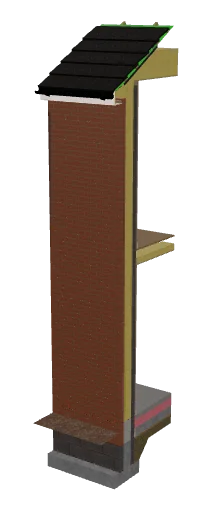
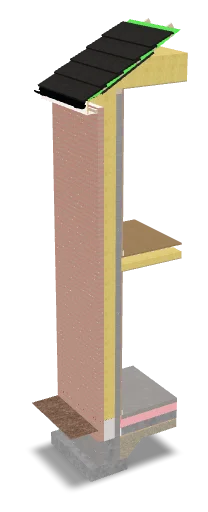
All files updated

diff --git a/styles.css b/styles.css
@@ -108,62 +108,3 @@ model-viewer {
   float: left;
   transition: width 0.3s;
 }
-
-#ar-button {
-  background-image: url(ar_icon.png);
-  background-repeat: no-repeat;
-  background-size: 20px 20px;
-  background-position: 12px 50%;
-  background-color: #fff;
-  position: absolute;
-  left: 50%;
-  transform: translateX(-50%);
-  white-space: nowrap;
-  bottom: 16px;
-  padding: 0px 16px 0px 40px;
-  font-family: Roboto Regular, Helvetica Neue, sans-serif;
-  font-size: 14px;
-  color:#4285f4;
-  height: 36px;
-  line-height: 36px;
-  border-radius: 18px;
-  border: 1px solid #DADCE0;
-}
-
-#ar-button:active {
-  background-color: #E8EAED;
-}
-
-#ar-button:focus {
-  outline: none;
-}
-
-#ar-button:focus-visible {
-  outline: 1px solid #4285f4;
-}
-
-@keyframes circle {
-  from { transform: translateX(-50%) rotate(0deg) translateX(50px) rotate(0deg); }
-  to   { transform: translateX(-50%) rotate(360deg) translateX(50px) rotate(-360deg); }
-}
-
-@keyframes elongate {
-  from { transform: translateX(100px); }
-  to   { transform: translateX(-100px); }
-}
-
-model-viewer > #ar-prompt {
-  position: absolute;
-  left: 50%;
-  bottom: 60px;
-  animation: elongate 2s infinite ease-in-out alternate;
-  display: none;
-}
-
-model-viewer[ar-status="session-started"] > #ar-prompt {
-  display: block;
-}
-
-model-viewer > #ar-prompt > img {
-  animation: circle 4s linear infinite;
-}

diff --git a/index.html b/index.html
@@ -1,32 +1,28 @@
 <!doctype html>
 <html lang="en">
   <head>
-    <title>&lt;model-viewer&gt; Construction Section 01</title>
+    <title>&lt;model-viewer&gt; Construction_Section_01</title>
     <meta charset="utf-8">
-    <meta name="description" content="&lt;model-viewer&gt; template">
+    <meta name="description" content="&lt;model-viewer&gt; Construction_Section_01">
     <meta name="viewport" content="width=device-width, initial-scale=1">
     <link type="text/css" href="./styles.css" rel="stylesheet"/>
   </head>
   <body>
     <!-- <model-viewer> HTML element -->
-    <model-viewer src="Construction Section_01.glb" ar ar-modes="webxr scene-viewer quick-look" camera-controls tone-mapping="neutral" poster="poster.webp" shadow-intensity="0" camera-orbit="305.5deg 74.83deg 14.97m" field-of-view="30deg" exposure="0.5">
-      <button class="Hotspot" slot="hotspot-2" data-position="0.14750001308687588m 4.603026205272397m -0.6445704399832366m" data-normal="-0.9999999999999994m 1.5367466376424592e-18m -3.422854295029559e-8m" data-visibility-attribute="visible">
-          <div class="HotspotAnnotation">External Wall</div>
-      </button><button class="Hotspot" slot="hotspot-5" data-position="1.253178084923992m 1.0500000493493107m -0.6942170580017392m" data-normal="0m 1m 4.4896641959724086e-11m" data-visibility-attribute="visible">
+    <model-viewer src="Construction Section_01.glb" ar ar-modes="webxr scene-viewer quick-look" camera-controls tone-mapping="neutral" poster="poster.webp" shadow-intensity="1" camera-orbit="328.7deg 68.93deg 14.97m" field-of-view="30deg">
+      <button class="Hotspot" slot="hotspot-1" data-position="1.1365699829150921m 1.0500000493458697m -0.6175879470704284m" data-normal="0m 1m 4.4896641959724086e-11m" data-visibility-attribute="visible">
           <div class="HotspotAnnotation">Ground Floor</div>
-      </button><button class="Hotspot" slot="hotspot-6" data-position="1.1574819339545872m 3.7820001794401055m -0.6205959400283155m" data-normal="0m 1m 4.489664195972409e-11m" data-visibility-attribute="visible">
+      </button><button class="Hotspot" slot="hotspot-2" data-position="1.1559918013961268m 3.7820001794395774m -0.6088427625494081m" data-normal="0m 1m 4.489664195972409e-11m" data-visibility-attribute="visible">
           <div class="HotspotAnnotation">Intermediate Floor</div>
-      </button><button class="Hotspot" slot="hotspot-7" data-position="0.8383865284364014m 6.737272952804552m -0.6689329556975857m" data-normal="-0.4170514501616451m 0.9088828790983297m 4.0805555262152806e-11m" data-visibility-attribute="visible">
+      </button><button class="Hotspot" slot="hotspot-3" data-position="0.6085038988945597m 6.59879416002192m -0.6868482457759819m" data-normal="-0.4171079325636264m 0.9088569593684683m 4.080382675273128e-11m" data-visibility-attribute="visible">
           <div class="HotspotAnnotation">Pitched Roof</div>
+      </button><button class="Hotspot" slot="hotspot-4" data-position="0.147500007005878m 2.6576874270754276m -0.6661758888028656m" data-normal="-1m 0m 0m" data-visibility-attribute="visible">
+          <div class="HotspotAnnotation">External Wall</div>
+      </button><button class="Hotspot" slot="hotspot-6" data-position="0m 0.10423690590914947m -0.6765554371347617m" data-normal="-1m 0m 0m" data-visibility-attribute="visible">
+          <div class="HotspotAnnotation">Foundation</div>
       </button>
       <div class="progress-bar hide" slot="progress-bar">
           <div class="update-bar"></div>
-      </div>
-      <button slot="ar-button" id="ar-button">
-          View in your space
-      </button>
-      <div id="ar-prompt">
-          <img src="ar_hand_prompt.png">
       </div>
     </model-viewer>  
     <script src="script.js"></script>